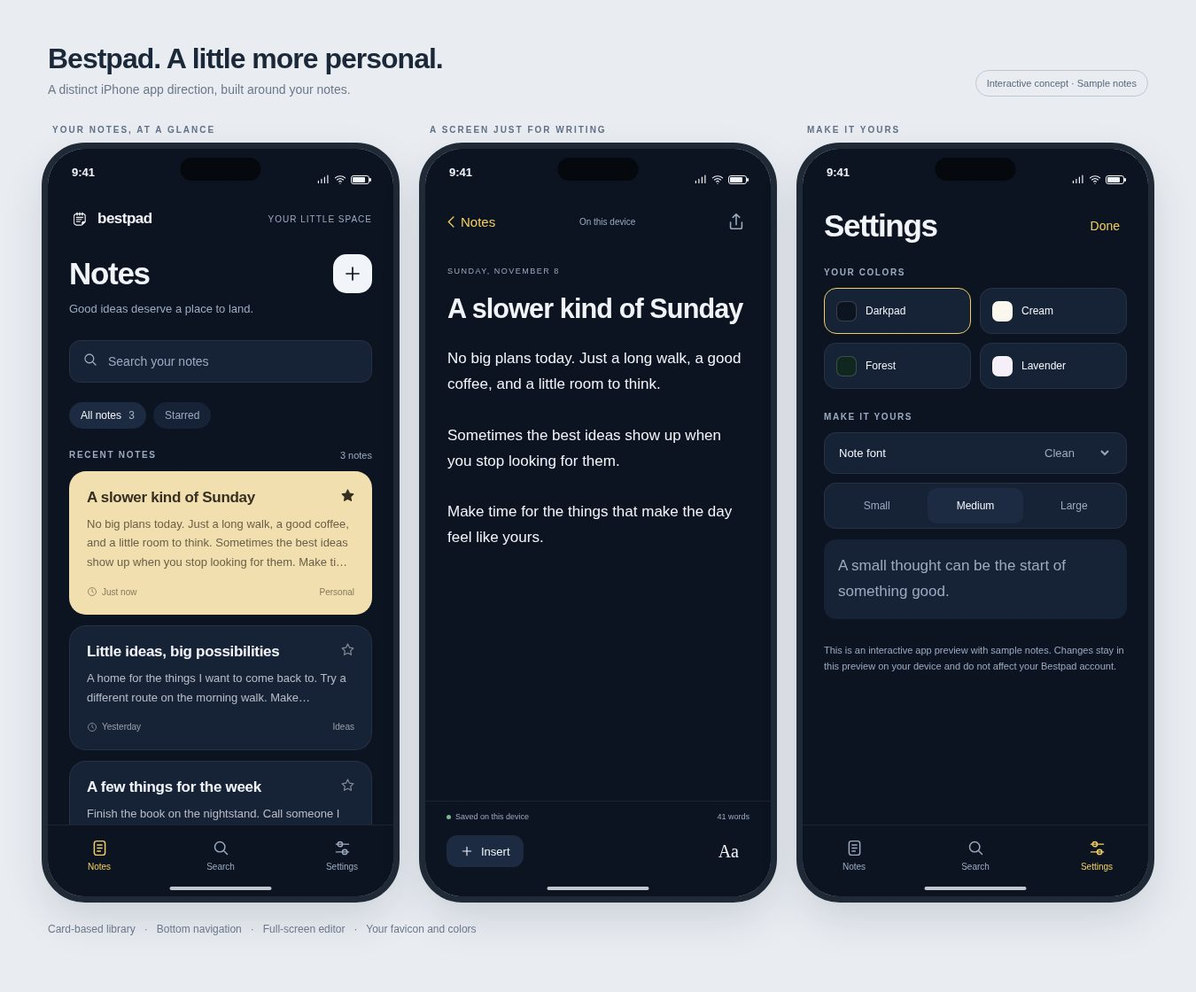
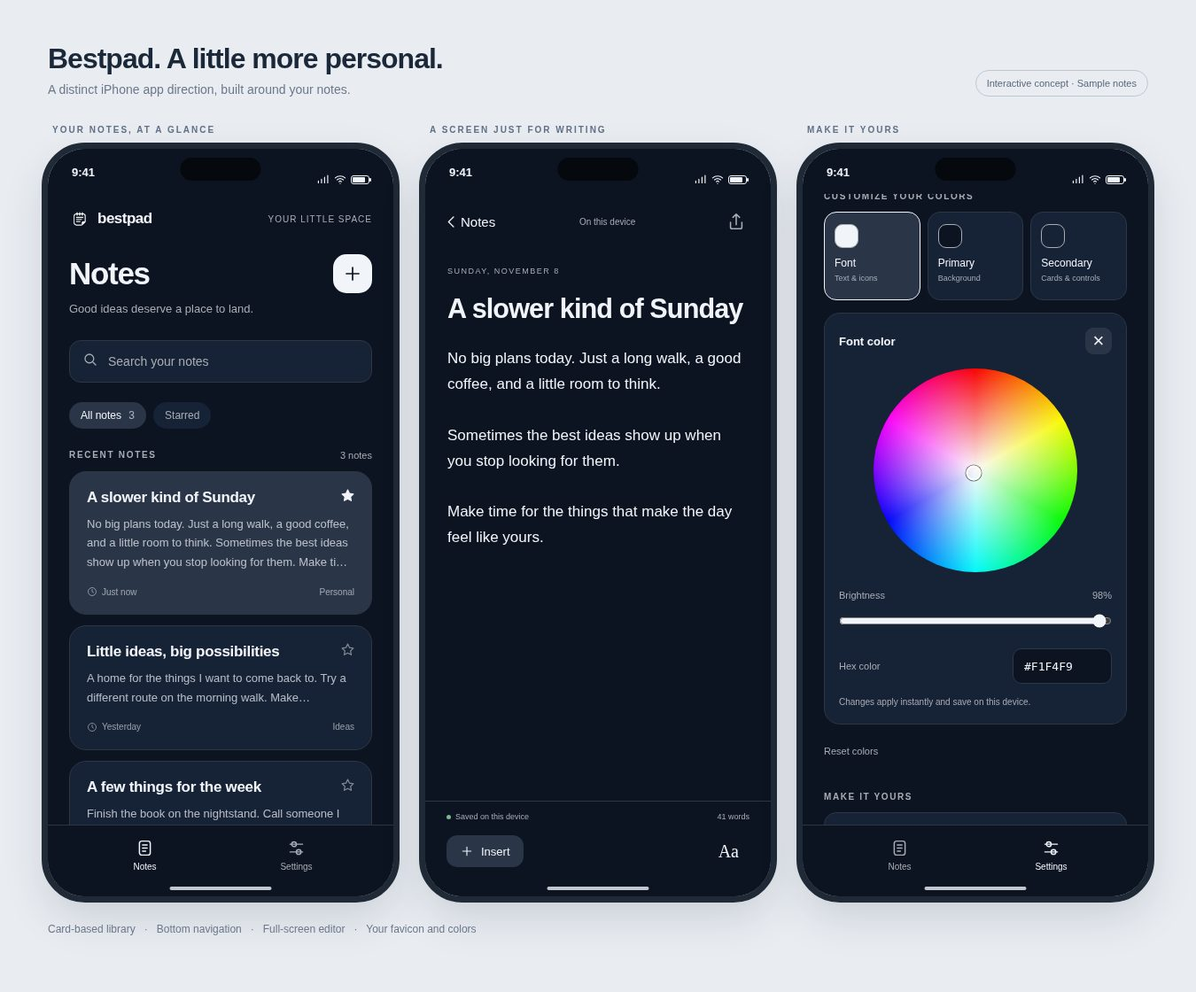
Simplify app preview navigation and add persistent three-part color-wheel customization

diff --git a/app-preview.html b/app-preview.html
@@ -4,29 +4,63 @@ html[data-theme=cream]{--bg:#faf7ef;--card:#fffdf8;--card2:#eee8da;--text:#292d3
 body{margin:0;min-height:100vh;background:#e9edf2;color:#172132;font-family:var(--font);-webkit-font-smoothing:antialiased}button,input,textarea,select{font:inherit;color:inherit}button{cursor:pointer;-webkit-tap-highlight-color:transparent}button:focus-visible,input:focus-visible,select:focus-visible{outline:2px solid var(--gold);outline-offset:3px}button{border:0}svg{width:22px;height:22px;fill:none;stroke:currentColor;stroke-width:1.7;stroke-linecap:round;stroke-linejoin:round;flex-shrink:0}[hidden]{display:none!important}.preview-wrap{display:flex;flex-direction:column;align-items:center;padding:32px 20px;gap:20px}.preview-label{display:flex;gap:14px;align-items:center;font-size:13px;color:#526074}.preview-label strong{color:#182332;font-size:16px}.preview-label span{border-left:1px solid #bbc4d0;padding-left:14px}.preview-foot{max-width:380px;text-align:center;color:#647185;font-size:11px;line-height:1.7}.phone{position:relative;width:390px;height:844px;max-width:100%;border-radius:46px;background:var(--bg);color:var(--text);box-shadow:0 25px 70px #17203325,0 0 0 8px #18202c,0 0 0 10px #76808c;overflow:hidden;isolation:isolate}.statusbar{position:absolute;inset:0 0 auto;height:51px;padding:19px 27px 0;display:flex;justify-content:space-between;font-size:13px;font-weight:650;z-index:10;pointer-events:none}.island{position:absolute;top:10px;left:50%;transform:translateX(-50%);height:26px;width:91px;background:#05080d;border-radius:22px}.status-icons{display:flex;gap:5px;align-items:center}.status-icons svg{width:14px;height:14px}.battery{width:21px;height:10px;border:1px solid currentColor;border-radius:3px;padding:1px;position:relative}.battery:after{content:'';position:absolute;right:-3px;top:2px;width:2px;height:4px;background:currentColor;border-radius:1px}.battery:before{content:'';display:block;background:currentColor;width:14px;height:6px;border-radius:1px}.screen{position:absolute;inset:51px 0 81px;overflow-y:auto;overscroll-behavior:contain;scrollbar-width:none;padding:16px 25px 24px}.screen::-webkit-scrollbar{display:none}.brandrow{display:flex;align-items:center;gap:8px;margin-bottom:28px}.brandrow img{width:24px;height:24px;object-fit:contain}.brandrow strong{font-size:17px;letter-spacing:-.5px}.brandrow small{margin-left:auto;color:var(--muted);font-size:10px;letter-spacing:1px}.title-row{display:flex;justify-content:space-between;align-items:center;margin-bottom:8px}h1{font-size:35px;letter-spacing:-1.3px;font-weight:700;margin:0}.subtext{font-size:13px;color:var(--muted);margin:0 0 24px;line-height:1.6}.new-button{display:grid;place-items:center;width:44px;height:44px;border-radius:15px;background:var(--text);color:var(--bg)}.new-button svg{width:24px;height:24px}.searchbox{display:flex;align-items:center;gap:9px;background:var(--card);border:1px solid var(--line);border-radius:13px;padding:12px 14px;color:var(--muted);margin:0 0 22px}.searchbox svg{width:18px;height:18px}.searchbox input{width:100%;border:0;outline:0;background:none;color:var(--text);font-size:14px}.searchbox input::placeholder{color:var(--muted)}.filters{display:flex;gap:8px;margin-bottom:24px}.filter{border-radius:30px;padding:8px 13px;background:var(--card);color:var(--muted);font-size:12px}.filter.active{background:var(--card2);color:var(--text)}.filter span{margin-left:5px;opacity:.65}.section-label{display:flex;align-items:center;justify-content:space-between;margin:0 0 12px;font-size:10px;font-weight:600;letter-spacing:1.7px;color:var(--muted)}.section-label span{letter-spacing:0;font-weight:400;font-size:11px}.note-card{background:var(--card);border:1px solid var(--line);border-radius:19px;padding:19px;margin-bottom:12px;position:relative}.note-card.featured{background:#f2dfaf;color:#352e21;border-color:transparent}.note-card button.note-open{display:block;width:100%;padding:0;border:0;background:none;text-align:left}.note-card h2{margin:0 32px 9px 0;font-size:17px;font-weight:600;letter-spacing:-.3px}.note-card p{font-size:13px;line-height:1.65;opacity:.72;margin:0;display:-webkit-box;-webkit-line-clamp:2;-webkit-box-orient:vertical;overflow:hidden}.featured p{-webkit-line-clamp:3}.note-meta{display:flex;justify-content:space-between;align-items:center;font-size:10px;opacity:.58;margin-top:17px}.note-meta span:first-child{display:flex;align-items:center;gap:5px}.note-meta svg{width:12px;height:12px}.star{position:absolute;right:13px;top:13px;background:none;color:inherit;opacity:.5;padding:5px;border-radius:8px}.star svg{width:17px;height:17px}.star[aria-pressed=true]{opacity:1}.star[aria-pressed=true] svg{fill:currentColor}.bottom-nav{position:absolute;inset:auto 0 0;height:81px;padding:8px 24px 22px;display:flex;justify-content:space-between;background:var(--bg);border-top:1px solid var(--line);z-index:8}.bottom-nav button{background:none;color:var(--muted);min-width:68px;display:flex;flex-direction:column;align-items:center;justify-content:center;gap:5px;font-size:10px;padding:0 10px;border-radius:12px}.bottom-nav button.active{color:var(--gold)}.bottom-nav svg{height:21px;width:21px}.home-indicator{position:absolute;bottom:7px;left:50%;transform:translateX(-50%);width:115px;height:4px;border-radius:10px;background:var(--text);opacity:.8;z-index:20;pointer-events:none}.editor-screen{inset:51px 0 0;padding:0;display:flex;flex-direction:column;overflow:hidden}.editor-nav{display:flex;align-items:center;justify-content:space-between;gap:10px;padding:12px 20px 15px;flex-shrink:0}.back{display:flex;align-items:center;gap:1px;color:var(--gold);background:none;padding:8px 0;font-size:15px}.back svg{width:19px;height:19px}.editor-nav>span{font-size:10px;color:var(--muted)}.icon-btn{width:38px;height:38px;border-radius:12px;display:grid;place-items:center;background:var(--card);color:var(--text)}.editor-nav .icon-btn{background:none;color:var(--muted)}.note-page{flex:1;min-height:0;overflow:auto;padding:17px 25px 40px}.date-label{font-size:9px;font-weight:500;letter-spacing:1.5px;color:var(--muted);margin-bottom:18px}.note-title{display:block;width:100%;padding:0;background:none;border:0;outline:0;resize:none;font-family:var(--note-font,var(--font));font-size:calc(var(--size)*1.8);line-height:1.25;font-weight:650;letter-spacing:-.9px;margin-bottom:24px}.note-title::placeholder{color:var(--muted)}.note-body{font-size:var(--size);line-height:var(--lh);outline:none;min-height:180px;font-family:var(--note-font,var(--font));white-space:pre-wrap;overflow-wrap:anywhere}.note-body:empty:before{content:'Start writing…';color:var(--muted)}.note-body h2{font-size:1.5em;line-height:1.4;margin:12px 0}.editor-footer{padding:12px 24px 33px;background:var(--bg);border-top:1px solid var(--line);flex-shrink:0}.save-line{display:flex;align-items:center;justify-content:space-between;color:var(--muted);font-size:9px;margin-bottom:16px}.saved-dot{width:5px;height:5px;display:inline-block;background:#80b494;border-radius:50%;margin-right:5px}.editor-toolbar{display:flex;align-items:center;justify-content:space-between}.insert-btn{display:flex;align-items:center;gap:8px;padding:10px 15px;border-radius:12px;background:var(--card2);color:var(--text);font-size:13px}.insert-btn svg{width:16px;height:16px}.text-settings{border:0;background:none;color:var(--text);font-size:20px;font-family:Georgia,serif;padding:5px 12px}.insert-popover{position:absolute;left:23px;bottom:128px;width:195px;padding:6px;border:1px solid var(--line);background:var(--card);box-shadow:0 15px 40px #0004;border-radius:15px;z-index:12}.insert-popover button{width:100%;min-height:43px;display:flex;align-items:center;gap:12px;background:none;color:var(--text);text-align:left;font-size:13px;border-radius:9px;padding:9px 12px}.insert-popover button:hover{background:var(--card2)}.insert-popover svg{width:17px;height:17px}.settings-header{display:flex;align-items:center;justify-content:space-between;margin-bottom:27px}.done{color:var(--gold);background:none;padding:8px;font-size:14px}.settings-section{margin-bottom:26px}.settings-section h2{font-size:10px;letter-spacing:1.6px;color:var(--muted);font-weight:600;margin:0 0 12px}.theme-grid{display:grid;grid-template-columns:repeat(2,1fr);gap:10px}.theme-button{display:flex;align-items:center;gap:10px;padding:13px;background:var(--card);color:var(--text);border-radius:14px;text-align:left;font-size:12px;border:1px solid var(--line);min-height:52px}.theme-button[aria-pressed=true]{border-color:var(--gold)}.theme-chip{height:23px;width:23px;flex-shrink:0;border:1px solid #ffffff30;border-radius:7px}.setting-row{display:flex;justify-content:space-between;align-items:center;gap:10px;padding:14px 16px;background:var(--card);border:1px solid var(--line);border-radius:14px;margin-bottom:10px;font-size:13px}.setting-row select{max-width:170px;font-size:13px;background:none;border:0;outline:none;color:var(--muted)}.size-segments{display:flex;background:var(--card);padding:5px;border:1px solid var(--line);border-radius:14px;gap:4px}.size-segments button{flex:1;min-height:40px;background:none;color:var(--muted);border-radius:10px;font-size:12px}.size-segments button.active{background:var(--card2);color:var(--text)}.font-sample{background:var(--card);padding:16px;border-radius:14px;font-family:var(--note-font,var(--font));font-size:var(--size);line-height:var(--lh);margin-top:12px;color:var(--muted)}.preview-notice{font-size:11px;line-height:1.7;color:var(--muted);margin-top:24px}.empty{text-align:center;color:var(--muted);padding:45px 20px;font-size:14px}.toast{position:absolute;bottom:100px;left:20px;right:20px;padding:14px;text-align:center;border:1px solid var(--line);background:var(--card2);color:var(--text);font-size:12px;border-radius:14px;z-index:30;box-shadow:0 10px 30px #0003}
 @media(max-width:480px){body{background:var(--bg)}.preview-wrap{padding:0;gap:0}.preview-label,.preview-foot{display:none}.phone{width:100%;height:100dvh;max-height:none;border-radius:0;box-shadow:none}.screen{padding-inline:24px}.editor-screen{padding:0}}
 @media(prefers-reduced-motion:reduce){*{scroll-behavior:auto}}
+
+.bottom-nav{justify-content:space-around}.bottom-nav button{min-width:110px}.note-card.featured{background:var(--card2);color:var(--text);border-color:var(--line)}
+.color-parts{display:grid;grid-template-columns:repeat(3,minmax(0,1fr));gap:8px}.color-part{display:flex;flex-direction:column;align-items:flex-start;gap:10px;min-height:100px;padding:13px 11px;border:1px solid var(--line);border-radius:14px;background:var(--card);color:var(--text);text-align:left;font-size:12px}.color-part[aria-expanded=true]{border-color:var(--text);background:var(--card2)}.color-part small{display:block;color:var(--muted);font-size:9px;margin-top:4px;line-height:1.4}.part-swatch{display:block;width:27px;height:27px;border:1px solid var(--muted);border-radius:9px}.color-editor{margin-top:14px;padding:16px;background:var(--card);border:1px solid var(--line);border-radius:18px}.color-editor-heading{display:flex;align-items:center;justify-content:space-between;margin-bottom:16px;font-size:13px}.color-editor-heading button{display:grid;place-items:center;width:30px;height:30px;background:var(--card2);color:var(--text);border-radius:9px;font-size:22px}.color-wheel{position:relative;width:230px;height:230px;max-width:100%;margin:0 auto 20px;border-radius:50%;touch-action:none;cursor:crosshair}.wheel-surface{position:absolute;inset:0;border-radius:50%;background:radial-gradient(circle,white 0%,transparent 72%),conic-gradient(red,#ff0,#0f0,#0ff,#00f,#f0f,red);filter:brightness(var(--wheel-brightness,1))}.wheel-marker{position:absolute;left:var(--marker-x,50%);top:var(--marker-y,0%);transform:translate(-50%,-50%);width:17px;height:17px;border:2px solid white;border-radius:50%;box-shadow:0 0 0 1px #0008;pointer-events:none}.brightness-label{display:flex;justify-content:space-between;font-size:11px;color:var(--muted);margin-bottom:8px}#color-brightness{display:block;width:100%;margin:0 0 16px;accent-color:var(--text);min-height:30px}.hex-label{display:flex;justify-content:space-between;align-items:center;font-size:11px;color:var(--muted);gap:10px}#color-hex{width:112px;min-height:40px;padding:8px 12px;background:var(--bg);color:var(--text);border:1px solid var(--line);border-radius:10px;font:13px ui-monospace,monospace}#color-feedback{font-size:10px;line-height:1.6;color:var(--muted);margin:13px 0 0}.reset-colors{margin-top:10px;min-height:40px;background:none;color:var(--muted);font-size:11px;padding:8px 0}
 </style></head><body><div class="preview-wrap"><div class="preview-label"><strong>Bestpad for iPhone</strong><span>Interactive app concept</span></div><div class="phone" id="phone"><div class="statusbar"><span>9:41</span><div class="island"></div><span class="status-icons"><svg viewBox="0 0 20 16"><path d="M2 13V10m5 3V7m5 6V4m5 9V1"/></svg><svg viewBox="0 0 20 16"><path d="M2 5a12 12 0 0 1 16 0M5 8a8 8 0 0 1 10 0M8 11a3 3 0 0 1 4 0M10 14h0"/></svg><span class="battery"></span></span></div>
 <section id="library" class="screen" aria-label="Notes library"><div class="brandrow"><img id="brand-icon" alt="" src="/favicon.png"><strong>bestpad</strong><small>YOUR LITTLE SPACE</small></div><div class="title-row"><h1>Notes</h1><button class="new-button" id="new-note" aria-label="New note"></button></div><p class="subtext">Good ideas deserve a place to land.</p><label class="searchbox"><span class="search-icon"></span><input id="library-query" aria-label="Search notes" placeholder="Search your notes"></label><div class="filters"><button class="filter active" data-filter="all">All notes <span id="all-count"></span></button><button class="filter" data-filter="starred">Starred</button></div><div class="section-label">RECENT NOTES<span id="note-count"></span></div><div id="note-list"></div></section>
-<section id="search-screen" class="screen" aria-label="Search notes" hidden><div class="title-row"><h1>Search</h1></div><p class="subtext">Find a thought. Pick up where you left off.</p><label class="searchbox"><span class="search-icon"></span><input id="search-query" aria-label="Search all notes" placeholder="Titles, words, little details…"></label><div id="search-results"></div></section>
-<section id="settings-screen" class="screen" aria-label="Settings" hidden><div class="settings-header"><h1>Settings</h1><button class="done" id="settings-done">Done</button></div><div class="settings-section"><h2>YOUR COLORS</h2><div class="theme-grid"><button class="theme-button" data-theme="darkpad" aria-pressed="true"><span class="theme-chip" style="background:#0c1422"></span>Darkpad</button><button class="theme-button" data-theme="cream" aria-pressed="false"><span class="theme-chip" style="background:#faf7ef"></span>Cream</button><button class="theme-button" data-theme="forest" aria-pressed="false"><span class="theme-chip" style="background:#10271f"></span>Forest</button><button class="theme-button" data-theme="lavender" aria-pressed="false"><span class="theme-chip" style="background:#f4eff9"></span>Lavender</button></div></div><div class="settings-section"><h2>MAKE IT YOURS</h2><label class="setting-row">Note font<select id="font"><option value="system">Clean</option><option value="serif">Book</option><option value="mono">Typewriter</option></select></label><div class="size-segments" aria-label="Text size"><button data-size="15">Small</button><button data-size="17" class="active">Medium</button><button data-size="21">Large</button></div><div class="font-sample">A small thought can be the start of something good.</div></div><p class="preview-notice">This is an interactive app preview with sample notes. Changes stay in this preview on your device and do not affect your Bestpad account.</p></section>
+<section id="settings-screen" class="screen" aria-label="Settings" hidden><div class="settings-header"><h1>Settings</h1><button class="done" id="settings-done">Done</button></div><div class="settings-section"><h2>YOUR COLORS</h2><div class="theme-grid"><button class="theme-button" data-theme="darkpad" aria-pressed="true"><span class="theme-chip" style="background:#0c1422"></span>Darkpad</button><button class="theme-button" data-theme="cream" aria-pressed="false"><span class="theme-chip" style="background:#faf7ef"></span>Cream</button><button class="theme-button" data-theme="forest" aria-pressed="false"><span class="theme-chip" style="background:#10271f"></span>Forest</button><button class="theme-button" data-theme="lavender" aria-pressed="false"><span class="theme-chip" style="background:#f4eff9"></span>Lavender</button></div></div><div class="settings-section"><h2>CUSTOMIZE YOUR COLORS</h2>
+<div class="color-parts" role="group" aria-label="Choose a color to edit">
+<button class="color-part" data-color-part="font" aria-expanded="false" aria-controls="color-editor"><span class="part-swatch" id="swatch-font"></span><span>Font<small>Text &amp; icons</small></span></button>
+<button class="color-part" data-color-part="primary" aria-expanded="false" aria-controls="color-editor"><span class="part-swatch" id="swatch-primary"></span><span>Primary<small>Background</small></span></button>
+<button class="color-part" data-color-part="secondary" aria-expanded="false" aria-controls="color-editor"><span class="part-swatch" id="swatch-secondary"></span><span>Secondary<small>Cards &amp; controls</small></span></button>
+</div>
+<div id="color-editor" class="color-editor" role="group" aria-labelledby="color-editor-title" hidden>
+<div class="color-editor-heading"><strong id="color-editor-title">Font color</strong><button id="close-color" aria-label="Close color editor">×</button></div>
+<div id="color-wheel" class="color-wheel" role="slider" tabindex="0" aria-label="Color wheel. Left and right adjust hue; up and down adjust saturation." aria-valuemin="0" aria-valuemax="359" aria-valuenow="0"><div class="wheel-surface"></div><span class="wheel-marker"></span></div>
+<label class="brightness-label" for="color-brightness">Brightness<span id="brightness-value">100%</span></label><input id="color-brightness" type="range" min="0" max="100" value="100">
+<label class="hex-label" for="color-hex">Hex color<input id="color-hex" type="text" maxlength="7" pattern="#[0-9a-fA-F]{6}" spellcheck="false" autocomplete="off" aria-describedby="color-feedback"></label>
+<p id="color-feedback" role="status">Changes apply instantly and save on this device.</p>
+</div>
+<button id="reset-colors" class="reset-colors">Reset colors</button>
+</div><div class="settings-section"><h2>MAKE IT YOURS</h2><label class="setting-row">Note font<select id="font"><option value="system">Clean</option><option value="serif">Book</option><option value="mono">Typewriter</option></select></label><div class="size-segments" aria-label="Text size"><button data-size="15">Small</button><button data-size="17" class="active">Medium</button><button data-size="21">Large</button></div><div class="font-sample">A small thought can be the start of something good.</div></div><p class="preview-notice">This is an interactive app preview with sample notes. Changes stay in this preview on your device and do not affect your Bestpad account.</p></section>
 <section id="editor-screen" class="screen editor-screen" aria-label="Note editor" hidden><div class="editor-nav"><button class="back" id="back-notes"></button><span id="editor-save-label">On this device</span><button class="icon-btn" id="share-note" aria-label="Share note"></button></div><div class="note-page"><div class="date-label" id="note-date"></div><textarea id="note-title" class="note-title" aria-label="Note title" rows="1" placeholder="Untitled note"></textarea><div id="note-body" class="note-body" contenteditable="true" role="textbox" aria-label="Note text" aria-multiline="true"></div></div><div class="editor-footer"><div class="save-line"><span id="save-label"><span class="saved-dot"></span>Saved on this device</span><span id="word-count"></span></div><div class="editor-toolbar"><button id="insert-toggle" class="insert-btn" aria-expanded="false" aria-controls="insert-menu"></button><button id="editor-font" class="text-settings" aria-label="Text appearance">Aa</button></div></div><div id="insert-menu" class="insert-popover" hidden><button data-insert="heading">Heading</button><button data-insert="time">Current time</button><button data-insert="date">Current date</button></div></section>
-<nav class="bottom-nav" id="bottom-nav" aria-label="App navigation"><button data-screen="library" class="active" aria-current="page"></button><button data-screen="search-screen"></button><button data-screen="settings-screen"></button></nav><div class="home-indicator"></div><div class="toast" id="toast" role="status" hidden></div></div><p class="preview-foot">A separate iPhone app direction: a notes library, bottom navigation, and a dedicated writing screen. Tap around to explore.</p></div>
+<nav class="bottom-nav" id="bottom-nav" aria-label="App navigation"><button data-screen="library" class="active" aria-current="page"></button><button data-screen="settings-screen"></button></nav><div class="home-indicator"></div><div class="toast" id="toast" role="status" hidden></div></div><p class="preview-foot">A separate iPhone app direction: a notes library, bottom navigation, and a dedicated writing screen. Tap around to explore.</p></div>
 <script>
 const $=id=>document.getElementById(id);const svg=path=>`<svg viewBox="0 0 24 24" aria-hidden="true">${path}</svg>`;const icons={plus:svg('<path d="M12 5v14M5 12h14"/>'),notes:svg('<rect x="5" y="3" width="14" height="18" rx="3"/><path d="M9 8h6M9 12h6M9 16h4"/>'),search:svg('<circle cx="10.5" cy="10.5" r="6.5"/><path d="m16 16 4 4"/>'),settings:svg('<path d="M4 7h16M4 17h16"/><circle cx="9" cy="7" r="3"/><circle cx="15" cy="17" r="3"/>'),back:svg('<path d="m15 5-7 7 7 7"/>'),share:svg('<path d="M12 16V3m-4 4 4-4 4 4M5 13v6a2 2 0 0 0 2 2h10a2 2 0 0 0 2-2v-6"/>'),star:svg('<path d="m12 3 2.8 5.7 6.2.9-4.5 4.4 1.1 6.2L12 17.3l-5.6 2.9 1.1-6.2L3 9.6l6.2-.9z"/>'),clock:svg('<circle cx="12" cy="12" r="9"/><path d="M12 7v5l3 2"/>')};
-$('new-note').innerHTML=icons.plus;$('share-note').innerHTML=icons.share;$('back-notes').innerHTML=icons.back+'Notes';$('insert-toggle').innerHTML=icons.plus+'Insert';document.querySelectorAll('.search-icon').forEach(el=>el.innerHTML=icons.search);document.querySelectorAll('[data-screen]').forEach(el=>el.innerHTML=icons[el.dataset.screen==='library'?'notes':el.dataset.screen==='search-screen'?'search':'settings']+`<span>${el.dataset.screen==='library'?'Notes':el.dataset.screen==='search-screen'?'Search':'Settings'}</span>`);
+$('new-note').innerHTML=icons.plus;$('share-note').innerHTML=icons.share;$('back-notes').innerHTML=icons.back+'Notes';$('insert-toggle').innerHTML=icons.plus+'Insert';document.querySelectorAll('.search-icon').forEach(el=>el.innerHTML=icons.search);document.querySelectorAll('[data-screen]').forEach(el=>el.innerHTML=icons[el.dataset.screen==='library'?'notes':'settings']+`<span>${el.dataset.screen==='library'?'Notes':'Settings'}</span>`);
 const initial=[{id:'weekend',title:'A slower kind of Sunday',body:'No big plans today. Just a long walk, a good coffee, and a little room to think.\n\nSometimes the best ideas show up when you stop looking for them.\n\nMake time for the things that make the day feel like yours.',starred:true,tag:'Personal',time:'Just now'},{id:'ideas',title:'Little ideas, big possibilities',body:'A home for the things I want to come back to.\n\nTry a different route on the morning walk.\nMake something just for the fun of it.',starred:false,tag:'Ideas',time:'Yesterday'},{id:'week',title:'A few things for the week',body:'Finish the book on the nightstand.\nCall someone I have been meaning to catch up with.\nLeave an afternoon open.',starred:false,tag:'Everyday',time:'Yesterday'}];
 let notes=structuredClone(initial),filter='all',current=null,screen='library',returnScreen='library';try{const cached=JSON.parse(localStorage.getItem('bestpad:app-preview')||'null');if(Array.isArray(cached)&&cached.every(n=>typeof n.title==='string'&&typeof n.body==='string'))notes=cached;}catch{}
 const esc=s=>String(s).replace(/[&<>"']/g,c=>({'&':'&amp;','<':'&lt;','>':'&gt;','"':'&quot;',"'":'&#39;'}[c]));
 function store(){try{localStorage.setItem('bestpad:app-preview',JSON.stringify(notes));}catch{toast('Preview changes could not be saved on this device.');}}
 function card(n,i){return `<article class="note-card ${i===0?'featured':''}"><button class="note-open" data-open="${esc(n.id)}"><h2>${esc(n.title||'Untitled note')}</h2><p>${esc(n.body||'A fresh space for your next thought.')}</p><div class="note-meta"><span>${icons.clock}${esc(n.time||'Just now')}</span><span>${esc(n.tag||'Personal')}</span></div></button><button class="star" data-star="${esc(n.id)}" aria-label="${n.starred?'Unstar':'Star'} note" aria-pressed="${Boolean(n.starred)}">${icons.star}</button></article>`;}
-function render(){const q=$('library-query').value.toLowerCase();const found=notes.filter(n=>(filter!=='starred'||n.starred)&&(n.title+' '+n.body).toLowerCase().includes(q));$('note-list').innerHTML=found.map(card).join('')||'<p class="empty">No notes here yet.</p>';$('all-count').textContent=notes.length;$('note-count').textContent=found.length+' notes';const search=$('search-query').value.toLowerCase();const results=notes.filter(n=>(n.title+' '+n.body).toLowerCase().includes(search));$('search-results').innerHTML=results.map(card).join('')||'<p class="empty">No matching notes.</p>';document.querySelectorAll('[data-open]').forEach(b=>b.onclick=()=>openNote(b.dataset.open));document.querySelectorAll('[data-star]').forEach(b=>b.onclick=()=>{const n=notes.find(n=>n.id===b.dataset.star);n.starred=!n.starred;store();render();});}
+function render(){const q=$('library-query').value.toLowerCase();const found=notes.filter(n=>(filter!=='starred'||n.starred)&&(n.title+' '+n.body).toLowerCase().includes(q));$('note-list').innerHTML=found.map(card).join('')||'<p class="empty">No notes here yet.</p>';$('all-count').textContent=notes.length;$('note-count').textContent=found.length+' notes';document.querySelectorAll('[data-open]').forEach(b=>b.onclick=()=>openNote(b.dataset.open));document.querySelectorAll('[data-star]').forEach(b=>b.onclick=()=>{const n=notes.find(n=>n.id===b.dataset.star);n.starred=!n.starred;store();render();});}
 function navigate(next){screen=next;document.querySelectorAll('.screen').forEach(el=>el.hidden=el.id!==next);$('bottom-nav').hidden=next==='editor-screen';document.querySelectorAll('[data-screen]').forEach(b=>{b.classList.toggle('active',b.dataset.screen===next);if(b.dataset.screen===next)b.setAttribute('aria-current','page');else b.removeAttribute('aria-current');});$('insert-menu').hidden=true;$('insert-toggle').setAttribute('aria-expanded','false');render();}
 function openNote(id){current=notes.find(n=>n.id===id);$('note-title').value=current.title;$('note-body').textContent=current.body;$('note-date').textContent=new Intl.DateTimeFormat(undefined,{weekday:'long',month:'long',day:'numeric'}).format(new Date()).toUpperCase();countWords();navigate('editor-screen');growTitle();}
 function growTitle(){$('note-title').style.height='auto';$('note-title').style.height=$('note-title').scrollHeight+'px';}
 function saveNote(){if(!current)return;growTitle();current.title=$('note-title').value;current.body=$('note-body').innerText;current.time='Just now';store();countWords();}
 function countWords(){$('word-count').textContent=($('note-body').innerText.trim().match(/\S+/g)||[]).length+' words';}
 let toastTimer;function toast(text){$('toast').textContent=text;$('toast').hidden=false;clearTimeout(toastTimer);toastTimer=setTimeout(()=>$('toast').hidden=true,2500);}
-document.querySelectorAll('[data-screen]').forEach(b=>b.onclick=()=>{returnScreen='library';navigate(b.dataset.screen);});document.querySelectorAll('[data-filter]').forEach(b=>b.onclick=()=>{filter=b.dataset.filter;document.querySelectorAll('[data-filter]').forEach(x=>x.classList.toggle('active',x===b));render();});$('library-query').oninput=render;$('search-query').oninput=render;$('new-note').onclick=()=>{const n={id:crypto.randomUUID(),title:'',body:'',starred:false,tag:'Personal',time:'Just now'};notes.unshift(n);store();openNote(n.id);$('note-title').focus();};$('back-notes').onclick=()=>{saveNote();navigate('library');};$('note-title').oninput=saveNote;$('note-body').oninput=saveNote;$('settings-done').onclick=()=>navigate(returnScreen);$('editor-font').onclick=()=>{returnScreen='editor-screen';navigate('settings-screen');};
-document.querySelectorAll('[data-theme]').forEach(b=>{if(b.tagName!=='BUTTON')return;b.onclick=()=>{document.documentElement.dataset.theme=b.dataset.theme;document.querySelectorAll('button[data-theme]').forEach(x=>x.setAttribute('aria-pressed',String(x===b)));};});$('font').onchange=()=>document.documentElement.style.setProperty('--note-font',{system:'-apple-system,BlinkMacSystemFont,"Segoe UI",sans-serif',serif:'Georgia,serif',mono:'ui-monospace,Consolas,monospace'}[$('font').value]);document.querySelectorAll('[data-size]').forEach(b=>b.onclick=()=>{document.documentElement.style.setProperty('--size',b.dataset.size+'px');document.querySelectorAll('[data-size]').forEach(x=>x.classList.toggle('active',x===b));});
+document.querySelectorAll('[data-screen]').forEach(b=>b.onclick=()=>{returnScreen='library';navigate(b.dataset.screen);});document.querySelectorAll('[data-filter]').forEach(b=>b.onclick=()=>{filter=b.dataset.filter;document.querySelectorAll('[data-filter]').forEach(x=>x.classList.toggle('active',x===b));render();});$('library-query').oninput=render;$('new-note').onclick=()=>{const n={id:crypto.randomUUID(),title:'',body:'',starred:false,tag:'Personal',time:'Just now'};notes.unshift(n);store();openNote(n.id);$('note-title').focus();};$('back-notes').onclick=()=>{saveNote();navigate('library');};$('note-title').oninput=saveNote;$('note-body').oninput=saveNote;$('settings-done').onclick=()=>navigate(returnScreen);$('editor-font').onclick=()=>{returnScreen='editor-screen';navigate('settings-screen');};
+const palettes={darkpad:{font:'#f1f4f9',primary:'#0c1422',secondary:'#162236'},cream:{font:'#292d37',primary:'#faf7ef',secondary:'#eee8da'},forest:{font:'#edf8f0',primary:'#10271f',secondary:'#1a372d'},lavender:{font:'#342842',primary:'#f4eff9',secondary:'#e7dcef'}};
+let appearance={theme:'darkpad',colors:{...palettes.darkpad},font:'system',size:17};
+try{const saved=JSON.parse(localStorage.getItem('bestpad:app-preview:appearance')||'null');if(saved&&saved.colors&&['font','primary','secondary'].every(key=>/^#[0-9a-f]{6}$/i.test(saved.colors[key]))){appearance={theme:saved.theme in palettes?saved.theme:'custom',colors:saved.colors,font:['system','serif','mono'].includes(saved.font)?saved.font:'system',size:[15,17,21].includes(saved.size)?saved.size:17};}}catch{}
+let selectedPart=null,hsv={h:0,s:1,v:1};
+const clamp=(n,min,max)=>Math.max(min,Math.min(max,n));
+function rgb(hex){return [1,3,5].map(i=>parseInt(hex.slice(i,i+2),16));}
+function mix(a,b,t){const first=rgb(a),second=rgb(b);return '#'+first.map((v,i)=>Math.round(v+(second[i]-v)*t).toString(16).padStart(2,'0')).join('');}
+function fromHSV({h,s,v}){const c=v*s,x=c*(1-Math.abs((h/60)%2-1)),m=v-c;const parts=h<60?[c,x,0]:h<120?[x,c,0]:h<180?[0,c,x]:h<240?[0,x,c]:h<300?[x,0,c]:[c,0,x];return '#'+parts.map(n=>Math.round((n+m)*255).toString(16).padStart(2,'0')).join('');}
+function toHSV(hex){const [r,g,b]=rgb(hex).map(n=>n/255),max=Math.max(r,g,b),min=Math.min(r,g,b),d=max-min;let h=0;if(d){h=max===r?60*(((g-b)/d)%6):max===g?60*((b-r)/d+2):60*((r-g)/d+4);}return {h:(h+360)%360,s:max?d/max:0,v:max};}
+function persistAppearance(){try{localStorage.setItem('bestpad:app-preview:appearance',JSON.stringify(appearance));$('color-feedback').textContent='Colors saved on this device.';}catch{$('color-feedback').textContent='Colors applied. This browser could not save your preference.';}}
+function applyAppearance(save=true){const root=document.documentElement,c=appearance.colors;root.dataset.theme=appearance.theme;for(const [name,value]of Object.entries({'--text':c.font,'--bg':c.primary,'--card':c.secondary,'--card2':mix(c.secondary,c.font,.09),'--muted':mix(c.primary,c.font,.68),'--line':mix(c.primary,c.font,.15),'--gold':c.font})){root.style.setProperty(name,value);}root.style.colorScheme=rgb(c.primary).reduce((sum,v,i)=>sum+v*[.2126,.7152,.0722][i],0)>145?'light':'dark';root.style.setProperty('--note-font',{system:'-apple-system,BlinkMacSystemFont,"Segoe UI",sans-serif',serif:'Georgia,serif',mono:'ui-monospace,Consolas,monospace'}[appearance.font]);root.style.setProperty('--size',appearance.size+'px');$('font').value=appearance.font;document.querySelectorAll('[data-size]').forEach(b=>b.classList.toggle('active',Number(b.dataset.size)===appearance.size));document.querySelectorAll('button[data-theme]').forEach(b=>b.setAttribute('aria-pressed',String(b.dataset.theme===appearance.theme)));for(const part of ['font','primary','secondary'])$('swatch-'+part).style.background=c[part];if(save)persistAppearance();}
+function renderWheel(){const wheel=$('color-wheel');wheel.style.setProperty('--wheel-brightness',hsv.v);wheel.style.setProperty('--marker-x',(50+Math.sin(hsv.h*Math.PI/180)*hsv.s*50)+'%');wheel.style.setProperty('--marker-y',(50-Math.cos(hsv.h*Math.PI/180)*hsv.s*50)+'%');wheel.setAttribute('aria-valuenow',String(Math.round(hsv.h)%360));wheel.setAttribute('aria-valuetext',fromHSV(hsv));$('color-brightness').value=Math.round(hsv.v*100);$('brightness-value').textContent=Math.round(hsv.v*100)+'%';$('color-hex').value=appearance.colors[selectedPart].toUpperCase();$('color-hex').setCustomValidity('');}
+function choosePart(part){selectedPart=part;hsv=toHSV(appearance.colors[part]);$('color-editor-title').textContent={font:'Font color',primary:'Primary color',secondary:'Secondary color'}[part];$('color-editor').hidden=false;document.querySelectorAll('[data-color-part]').forEach(b=>b.setAttribute('aria-expanded',String(b.dataset.colorPart===part)));renderWheel();$('color-editor').scrollIntoView({block:'nearest',behavior:matchMedia('(prefers-reduced-motion: reduce)').matches?'auto':'smooth'});}
+function setWheelColor(){if(!selectedPart)return;appearance.theme='custom';appearance.colors[selectedPart]=fromHSV(hsv);applyAppearance();renderWheel();}
+document.querySelectorAll('[data-color-part]').forEach(b=>b.onclick=()=>choosePart(b.dataset.colorPart));$('close-color').onclick=()=>{const part=selectedPart;$('color-editor').hidden=true;document.querySelectorAll('[data-color-part]').forEach(b=>b.setAttribute('aria-expanded','false'));document.querySelector('[data-color-part="'+part+'"]').focus();selectedPart=null;};
+function wheelPointer(event){const rect=$('color-wheel').getBoundingClientRect(),x=event.clientX-rect.left-rect.width/2,y=event.clientY-rect.top-rect.height/2;hsv.h=(Math.atan2(y,x)*180/Math.PI+450)%360;hsv.s=clamp(Math.hypot(x,y)/(rect.width/2),0,1);setWheelColor();}
+$('color-wheel').onpointerdown=event=>{if(event.button!==0)return;event.preventDefault();$('color-wheel').setPointerCapture(event.pointerId);wheelPointer(event);};$('color-wheel').onpointermove=event=>{if($('color-wheel').hasPointerCapture(event.pointerId))wheelPointer(event);};$('color-wheel').onpointerup=event=>{if($('color-wheel').hasPointerCapture(event.pointerId))$('color-wheel').releasePointerCapture(event.pointerId);};$('color-wheel').onkeydown=event=>{if(!['ArrowLeft','ArrowRight','ArrowUp','ArrowDown'].includes(event.key))return;event.preventDefault();if(event.key==='ArrowLeft'||event.key==='ArrowRight')hsv.h=(hsv.h+(event.key==='ArrowRight'?1:-1)*(event.shiftKey?10:1)+360)%360;else hsv.s=clamp(hsv.s+(event.key==='ArrowUp'?.02:-.02),0,1);setWheelColor();};
+$('color-brightness').oninput=()=>{hsv.v=Number($('color-brightness').value)/100;setWheelColor();};$('color-hex').oninput=()=>$('color-hex').setCustomValidity('');$('color-hex').onchange=()=>{const value=$('color-hex').value.trim();if(!/^#[0-9a-f]{6}$/i.test(value)){$('color-hex').setCustomValidity('Enter a six-digit hex color, such as #112233.');$('color-hex').reportValidity();return;}appearance.theme='custom';appearance.colors[selectedPart]=value.toLowerCase();hsv=toHSV(value);applyAppearance();renderWheel();};
+document.querySelectorAll('button[data-theme]').forEach(b=>b.onclick=()=>{appearance.theme=b.dataset.theme;appearance.colors={...palettes[b.dataset.theme]};applyAppearance();if(selectedPart){hsv=toHSV(appearance.colors[selectedPart]);renderWheel();}});$('reset-colors').onclick=()=>{appearance.theme='darkpad';appearance.colors={...palettes.darkpad};applyAppearance();if(selectedPart){hsv=toHSV(appearance.colors[selectedPart]);renderWheel();}};$('font').onchange=()=>{appearance.font=$('font').value;applyAppearance();};document.querySelectorAll('[data-size]').forEach(b=>b.onclick=()=>{appearance.size=Number(b.dataset.size);applyAppearance();});applyAppearance(false);
 let savedRange=null;$('insert-toggle').onpointerdown=e=>e.preventDefault();$('insert-toggle').onclick=()=>{const selection=getSelection();savedRange=selection&&selection.rangeCount&&$('note-body').contains(selection.anchorNode)?selection.getRangeAt(0).cloneRange():null;$('insert-menu').hidden=!$('insert-menu').hidden;$('insert-toggle').setAttribute('aria-expanded',String(!$('insert-menu').hidden));};document.querySelectorAll('[data-insert]').forEach(b=>{b.onpointerdown=e=>e.preventDefault();b.onclick=()=>{const body=$('note-body');body.focus();const sel=getSelection();if(savedRange&&body.contains(savedRange.startContainer)){sel.removeAllRanges();sel.addRange(savedRange);}else{const range=document.createRange();range.selectNodeContents(body);range.collapse(false);sel.removeAllRanges();sel.addRange(range);}if(b.dataset.insert==='heading'){document.execCommand('insertHTML',false,'<h2>Heading</h2><p><br></p>');}else{document.execCommand('insertText',false,new Intl.DateTimeFormat(undefined,b.dataset.insert==='time'?{hour:'numeric',minute:'2-digit'}:{year:'numeric',month:'long',day:'numeric'}).format(new Date()));}$('insert-menu').hidden=true;$('insert-toggle').setAttribute('aria-expanded','false');saveNote();};});
 $('share-note').onclick=async()=>{try{if(navigator.share)await navigator.share({title:current.title,text:current.body});else{await navigator.clipboard.writeText(current.title+'\n\n'+current.body);toast('Note copied.');}}catch{toast('Sharing is unavailable in this preview.');}};render();const view=new URLSearchParams(location.search).get('screen');if(view==='editor')openNote(notes[0].id);if(view==='settings')navigate('settings-screen');
 </script></body></html>
